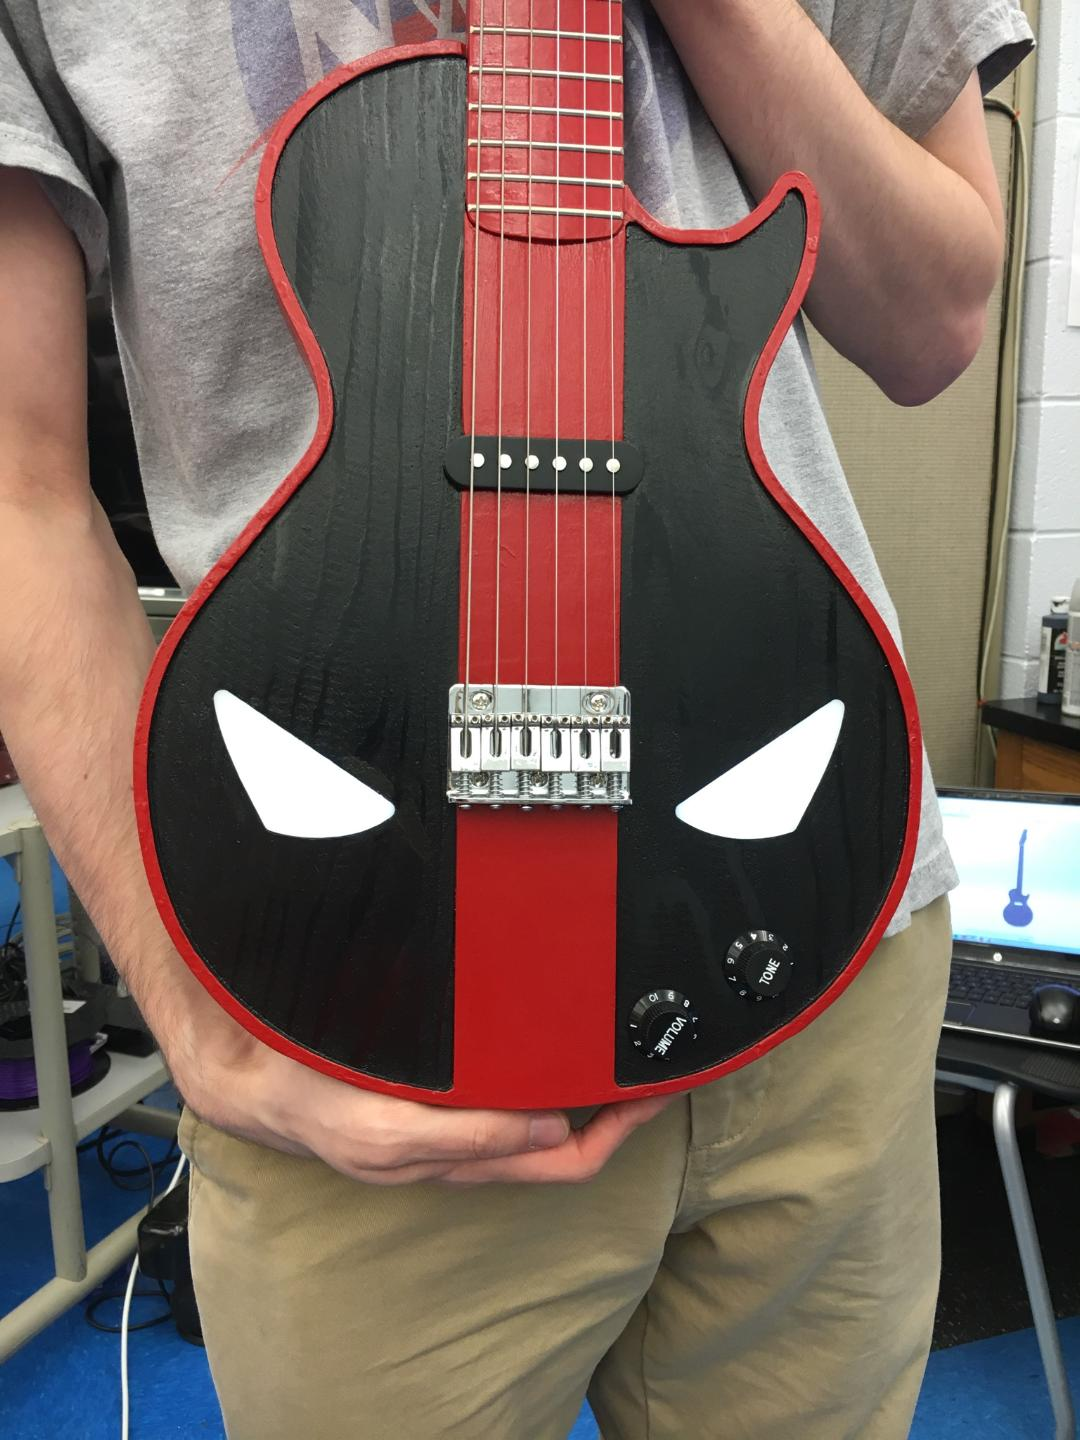
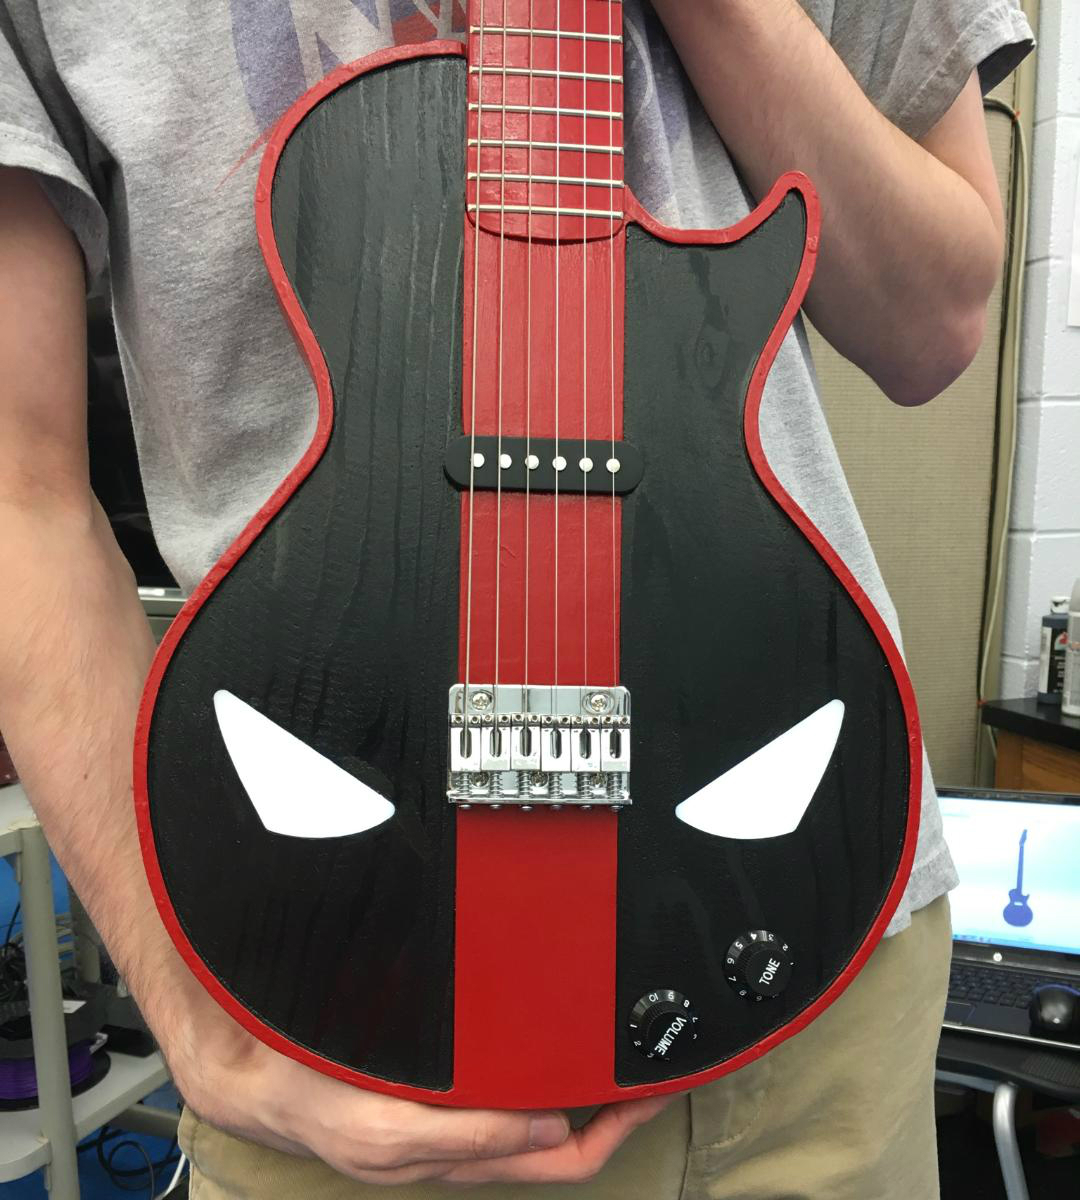
cropped some images

diff --git a/portfolio.html b/portfolio.html
@@ -26,7 +26,7 @@
 </header>
 <header class="w3-container w3-padding-32 w3-center w3-opacity">
   <div class="w3-clear"></div>
-  <h2 id=projects>Project Index</h2>
+  <h2>Project Index</h2>
   <p>Click an image to learn more!
   </p>
 </header>
@@ -73,15 +73,19 @@
 </section>
 </div>
 
+
+<!-- Project List -->
+
 <div class="gradiv w3-center" style="margin-bottom: 50px">
 	<h3>Project List</h3>
 </div>
 
 <div style="margin-left: 200px;margin-right: 200px;">
 
+
 <!-- BIKE LIGHT -->
-<div class="w3-row-padding" style="margin-bottom: 50px;">
-	<div class="w3-third">
+<div class="w3-center" style="margin-left: 10px;margin-right: 10px;margin-bottom: 50px">
+<section id="projects">
 		<h3 class="w3-center" id="smart-bike-light">
 			Smart Bike Light
 		</h3>
@@ -99,25 +103,19 @@
 		<p style="text-indent: 40px">
 			During this project I learned a great deal about AC to DC power conversion, the difficulties of working with an inconsistent power supply (a bike generator hub), and the non-trivial task of getting electrical and mechanical systems to integrate while still meeting design requirements.
 		</p>
-	</div>
-
-	<div class="w3-third">
-		<img src="https://jaz-jlh.github.io/images/bike-light-handlebars.jpg" alt="Bike Light Interface" style="width: 100%">
-		<img src="https://jaz-jlh.github.io/images/bike-night-riding.JPG" alt="Embedding ourselves in the problem by riding at night" style="width: 100%">
-	</div>
-
-	<div class="w3-third">
-		<img src="https://jaz-jlh.github.io/images/bike-oscilloscope.png" alt="Oscilloscope graph of the rectified and regulated generator output" style="width: 100%">
-		<img src="https://jaz-jlh.github.io/images/bike-block-diagram.png" alt="Block diagram of the system" style="width: 100%">
-	</div>
+		<img src="https://jaz-jlh.github.io/images/bike-light-handlebars.jpg" alt="Bike Light Interface">
+		<img src="https://jaz-jlh.github.io/images/bike-night-riding.JPG" alt="Embedding ourselves in the problem by riding at night">
+		<img src="https://jaz-jlh.github.io/images/bike-oscilloscope.png" alt="Oscilloscope graph of the rectified and regulated generator output">
+		<img src="https://jaz-jlh.github.io/images/bike-block-diagram.png" alt="Block diagram of the system">
+</section>
 </div>
 <!-- BIKE LIGHT -->
 
 
 <!-- SEMI-QUADCOPTER -->
-<div class="w3-row-padding" style="margin-bottom: 50px">
-	<div class="w3-third">
-		<h3 class="w3-center" id="semi-quadcopter">
+<div class="w3-center" style="margin-left: 10px;margin-right: 10px;margin-bottom: 50px">
+<section id="projects">
+		<h3 class="w3-center" id="smart-bike-light">
 			Semi-Quadcopter
 		</h3>
 		<p>
@@ -135,15 +133,9 @@
 		<p style="text-indent: 40px">
 			Check out the <a href="https://github.com/jaz-jlh/mechatronics-propeller-c-projects">GitHub page for this project.</a>
 		</p>
-	</div>
-
-	<div class="w3-third">
-		<img src="https://jaz-jlh.github.io/images/quadcopter-1dof-pi.gif" alt="PI Control with 1 DOF" style="width: 100%">
-	</div>
-
-	<div class="w3-third">
-		<img src="https://jaz-jlh.github.io/images/quadcopter-1dof-pid.gif" alt="PID Control with 1 DOF" style="width: 100%">
-	</div>
+		<img src="https://jaz-jlh.github.io/images/quadcopter-1dof-pi.gif" alt="PI Control with 1 DOF">
+		<img src="https://jaz-jlh.github.io/images/quadcopter-1dof-pid.gif" alt="PID Control with 1 DOF">
+</section>
 </div>
 <!-- SEMI-QUADCOPTER -->
 
@@ -179,9 +171,9 @@
 
 
 <!-- LINE-FOLLOWING ROBOT -->
-<div class="w3-row-padding" style="margin-bottom: 50px">
-	<div class="w3-third">
-		<h3 class="w3-center" id="line-following-robot">
+<div class="w3-center" style="margin-left: 10px;margin-right: 10px;margin-bottom: 50px">
+<section id="projects">
+		<h3 class="w3-center" id="smart-bike-light">
 			Line-Following Robot
 		</h3>
 		<p>
@@ -198,24 +190,19 @@
 		<p style="text-indent: 40px">
 			Check out the <a href="https://github.com/jaz-jlh/i2ems-arduino-projects">GitHub page for this project.</a>
 		</p>
-	</div>
-
-	<div class="w3-third">
-		<img src="https://jaz-jlh.github.io/images/line-following-course.jpg" alt="Line following course" style="width: 100%">
-		<img src="https://jaz-jlh.github.io/images/line-following-side.jpg" alt="Side of robot" style="width: 100%">
-	</div>
-
-	<div class="w3-third">
-		<img src="https://jaz-jlh.github.io/images/line-following-front.jpg" alt="Front of robot" style="width: 100%">
-		<img src="https://jaz-jlh.github.io/images/line-following-bottom.jpg" alt="Bottom of robot" style="width: 100%">
-	</div>
+		<img src="https://jaz-jlh.github.io/images/line-following-course.jpg" alt="Line following course" >
+		<img src="https://jaz-jlh.github.io/images/line-following-side.jpg" alt="Side of robot">
+		<img src="https://jaz-jlh.github.io/images/line-following-bottom.jpg" alt="Bottom of robot">
+</section>
 </div>
 <!-- LINE-FOLLOWING ROBOT -->
 
+
+
 <!-- AUTOMATED GREENHOUSE -->
-<div class="w3-row-padding" style="margin-bottom: 50px">
-	<div class="w3-third">
-		<h3 class="w3-center" id="automated-greenhouse">
+<div class="w3-center" style="margin-left: 10px;margin-right: 10px;margin-bottom: 50px">
+<section id="projects">
+		<h3 class="w3-center" id="smart-bike-light">
 			Automated Greenhouse
 		</h3>
 		<p>
@@ -238,25 +225,19 @@
 		<p style="text-indent: 40px">
 			Check out the <a href="https://github.com/jaz-jlh/i2ems-arduino-projects">GitHub page for this project.</a>
 		</p>
-	</div>
-
-	<div class="w3-third">
-		<img src="https://jaz-jlh.github.io/images/greenhouse-laptop-graph.jpg" alt="Laptop displaying graph of greenhouse" style="width: 100%">
-		<img src="https://jaz-jlh.github.io/images/greenhouse-complete.jpg" alt="Completed greenhouse" style="width: 100%">
-	</div>
-
-	<div class="w3-third">
-		<img src="https://jaz-jlh.github.io/images/greenhouse-thermo-discretization.jpg" alt="Discretization of the thermodynamics of the greenhouse" style="width: 100%">
-		<img src="https://jaz-jlh.github.io/images/greenhouse-side.jpg" alt="Another image of the completed greenhouse" style="width: 100%">
-	</div>
+		<img src="https://jaz-jlh.github.io/images/greenhouse-laptop-graph.jpg" alt="Laptop displaying graph of greenhouse">
+		<img src="https://jaz-jlh.github.io/images/greenhouse-complete.jpg" alt="Completed greenhouse">
+		<img src="https://jaz-jlh.github.io/images/greenhouse-thermo-discretization.jpg" alt="Discretization of the thermodynamics of the greenhouse">
+		<img src="https://jaz-jlh.github.io/images/greenhouse-side.jpg" alt="Another image of the completed greenhouse">
+</section>
 </div>
 <!--  AUTOMATED GREENHOUSE -->
 
 
 <!-- ELECTRIC GUITAR -->
-<div class="w3-row-padding" style="margin-bottom: 50px">
-	<div class="w3-third">
-		<h3 class="w3-center" id="electric-guitar">
+<div class="w3-center" style="margin-left: 10px;margin-right: 10px;margin-bottom: 50px">
+<section id="projects">
+		<h3 class="w3-center" id="smart-bike-light">
 			Electric Guitar
 		</h3>
 		<p>
@@ -273,25 +254,19 @@
 		<p style="text-indent: 40px">
 			Creating the guitar required us to balance manufacturability, aesthetics, acoustics, and structural integrity. 
 		</p>
-	</div>
-
-	<div class="w3-third">
-		<img src="https://jaz-jlh.github.io/images/guitar-playing.gif" alt="Demo of the guitar" style="width: 100%">
-		<img src="https://jaz-jlh.github.io/images/guitar-lights.jpg" alt="Guitar with the lights on" style="width: 100%">
-	</div>
-
-	<div class="w3-third">
-		<img src="https://jaz-jlh.github.io/images/guitar-holding.jpg" alt="The completed guitar" style="width: 100%">
-		<img src="https://jaz-jlh.github.io/images/guitar-effects-circuits.jpg" alt="The analog effects circuits we designed and built" style="width: 100%">
-	</div>
+		<img src="https://jaz-jlh.github.io/images/guitar-playing.gif" alt="Demo of the guitar">
+		<img src="https://jaz-jlh.github.io/images/guitar-lights.jpg" alt="Guitar with the lights on">
+		<img src="https://jaz-jlh.github.io/images/guitar-holding.jpg" alt="The completed guitar">
+		<img src="https://jaz-jlh.github.io/images/guitar-effects-circuits.jpg" alt="The analog effects circuits we designed and built">
+</section>
 </div>
 <!--  ELECTRIC GUITAR -->
 
 
 <!-- CLOCK -->
-<div class="w3-row-padding" style="margin-bottom: 50px">
-	<div class="w3-third">
-		<h3 class="w3-center" id="clock">
+<div class="w3-center" style="margin-left: 10px;margin-right: 10px;margin-bottom: 50px">
+<section id="projects" style="margin-bottom: 50px">
+		<h3 class="w3-center" id="smart-bike-light">
 			Virginia Clock
 		</h3>
 		<p>
@@ -317,15 +292,9 @@
 		<p style="text-indent: 40px">
 			The software for the clock is written in Propeller Spin for the Propeller microcontroller. Communication with the RTC and the high speed assembly code written to interface with the LED strip were provided by our professor, Gavin Garner, and integrated into our code controlling the motion of the stepper motors and the display of the time. 
 		</p>
-	</div>
-
-	<div class="w3-third">
-		<img src="https://jaz-jlh.github.io/images/clock-workshop.jpg" alt="Partially completed clock" style="width: 100%">
-	</div>
-
-	<div class="w3-third">
-		<img src="https://jaz-jlh.github.io/images/milling.gif" alt="Milling parts for the clock" style="width: 100%">
-	</div>
+		<img src="https://jaz-jlh.github.io/images/clock-workshop.jpg" alt="Partially completed clock">
+		<img src="https://jaz-jlh.github.io/images/milling.gif" alt="Milling parts for the clock">
+</section>
 </div>
 <!-- CLOCK -->
 

diff --git a/w3.css b/w3.css
@@ -77,6 +77,61 @@ legend{color:inherit;display:table;max-width:100%;padding:0;white-space:normal}t
   }
 }
 
+#projects {   
+  -webkit-column-count: 3;
+  -webkit-column-gap:   10px;
+  -moz-column-count:    3;
+  -moz-column-gap:      10px;
+  column-count:         3;
+  column-gap:           10px;  
+}
+
+#projects img {
+  /* Just in case there are inline attributes */
+  width: 100% !important;
+  height: auto !important;
+  margin-top: 5px;
+  margin-bottom: 5px;
+}
+#projects p {
+	width: auto !important;
+	height: auto !important;
+	text-align: left;
+}
+#projects li {
+	text-align: left;
+}
+/*Query browser to auto-adjust number of columns*/
+@media (max-width: 1200px) {
+  #projects {
+  -moz-column-count:    3;
+  -webkit-column-count: 3;
+  column-count:         3;
+  }
+}
+@media (max-width: 1000px) {
+  #projects {
+  -moz-column-count:    3;
+  -webkit-column-count: 3;
+  column-count:         3;
+  }
+}
+@media (max-width: 800px) {
+  #projects {
+  -moz-column-count:    2;
+  -webkit-column-count: 2;
+  column-count:         2;
+  }
+}
+@media (max-width: 400px) {
+  #projects {
+  -moz-column-count:    1;
+  -webkit-column-count: 1;
+  column-count:         1;
+  }
+}
+
+
 p,li{font-family: 'Roboto Condensed',sans-serif;}
 html,body{font-family:'Roboto Slab',serif;font-size:15px;line-height:1.5}html{overflow-x:hidden}
 h1,h2,h3,h4,h5,h6,.w3-slim,.w3-wide{font-family:"Roboto Slab",serif;}
